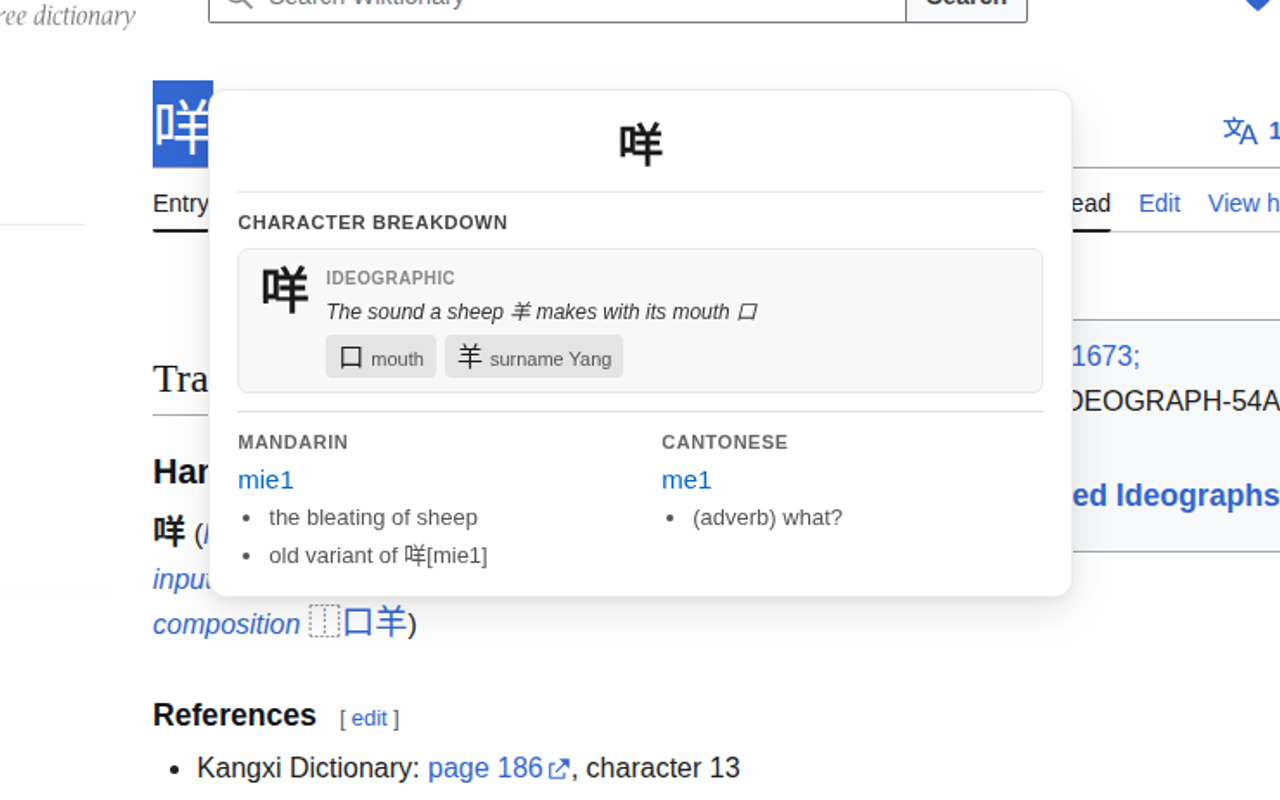
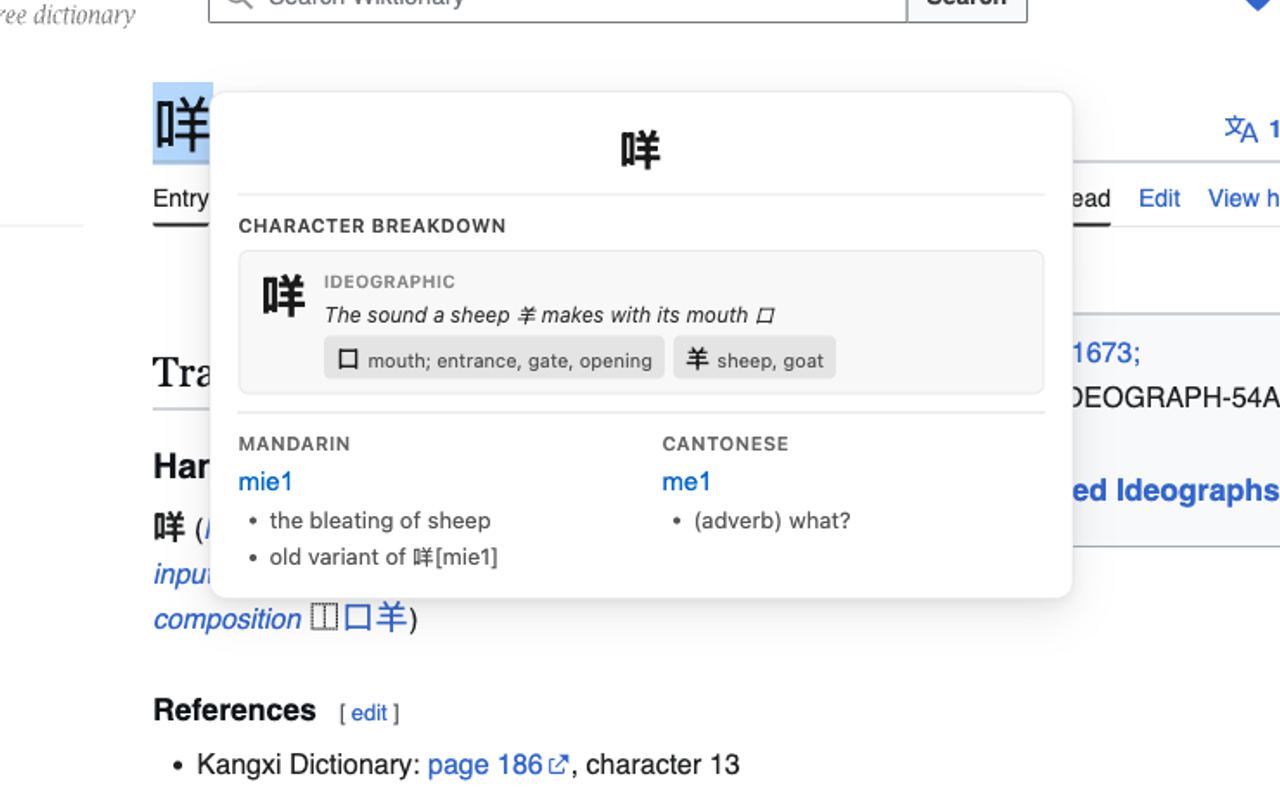
refactor(build, dict): Use makemeahanzi definitions for component chips
Replace runtime CC-CEDICT lookups for etymology component definitions with
the definition field from makemeahanzi, stored in etymology.json at build time.

diff --git a/src/background/dictionary.ts b/src/background/dictionary.ts
@@ -57,14 +57,6 @@ function processDictionaryLookup(
 const IDS_COMPONENT_RE = /[\u2FF0-\u2FFB？]/;
 const etymologyCache = new Map<string, CharacterEtymology[]>();
 
-function getFirstDefinition(char: string): string | undefined {
-  const entries = processDictionaryLookup(mandarinDict, char, true);
-  if (!entries.length) return undefined;
-  const raw = entries[0]?.definitions[0]?.trim();
-  if (!raw) return undefined;
-  return raw.split(/[;,]/)[0]?.trim();
-}
-
 export function lookupEtymology(word: string): CharacterEtymology[] {
   const cached = etymologyCache.get(word);
   if (cached) return cached;
@@ -85,7 +77,7 @@ export function lookupEtymology(word: string): CharacterEtymology[] {
 
       const componentDefinitions: Record<string, string> = {};
       for (const comp of toResolve) {
-        const def = getFirstDefinition(comp);
+        const def = etymologyDict[comp]?.definition;
         if (def) componentDefinitions[comp] = def;
       }
 

diff --git a/build-tools/processors/etymology-processor.ts b/build-tools/processors/etymology-processor.ts
@@ -5,6 +5,7 @@ import type { EtymologyDictionary, CharacterEtymology, EtymologyType } from '../
 
 interface RawEtymologyEntry {
   character: string;
+  definition?: string;
   decomposition: string;
   radical: string;
   etymology?: {
@@ -38,7 +39,8 @@ export async function processEtymologyDict(): Promise<EtymologyDictionary> {
       const entry: CharacterEtymology = {
         character: raw.character,
         decomposition: raw.decomposition,
-        radical: raw.radical
+        radical: raw.radical,
+        ...(raw.definition ? { definition: raw.definition } : {})
       };
 
       // Add etymology fields if present and valid

diff --git a/src/shared/types.ts b/src/shared/types.ts
@@ -4,6 +4,7 @@ export type EtymologyType = 'pictophonetic' | 'ideographic' | 'pictographic';
 
 export interface CharacterEtymology {
   character: string;
+  definition?: string;
   decomposition: string;
   radical: string;
   etymologyType?: EtymologyType;
